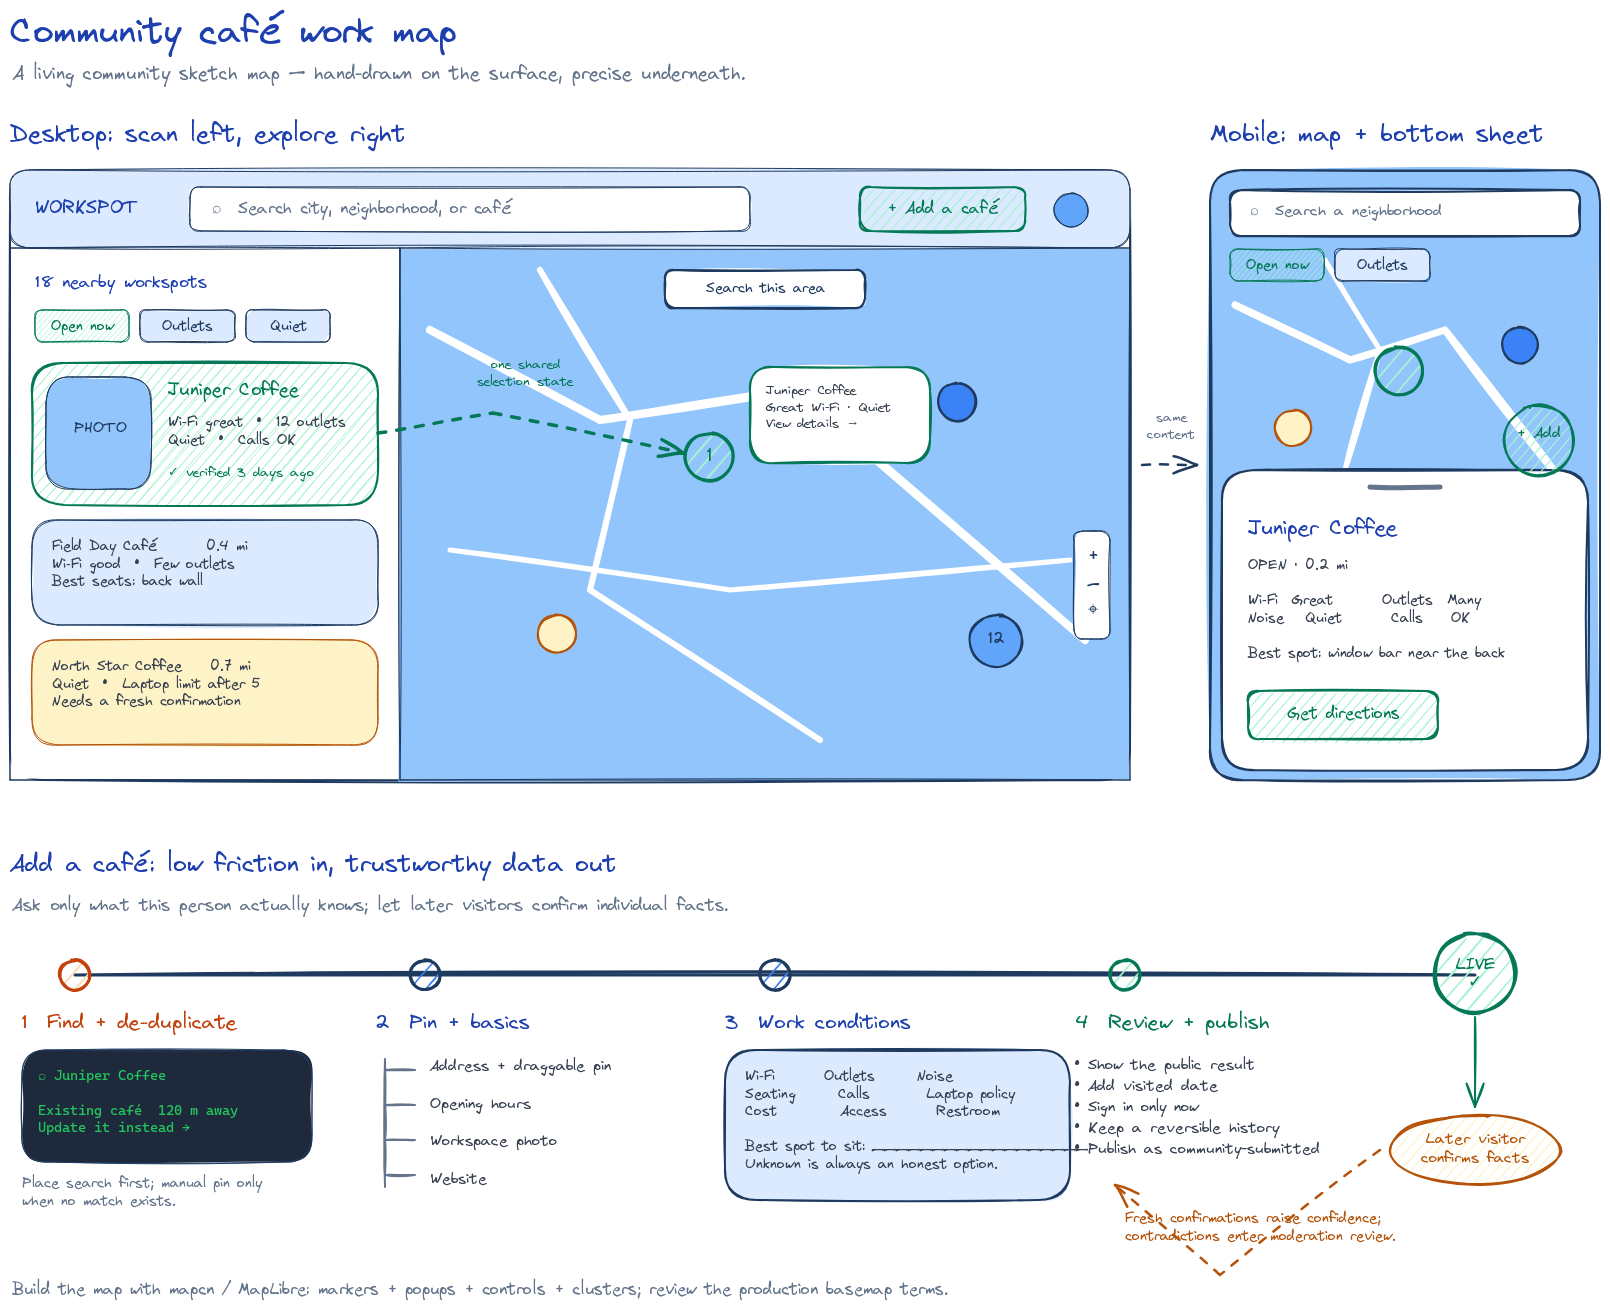
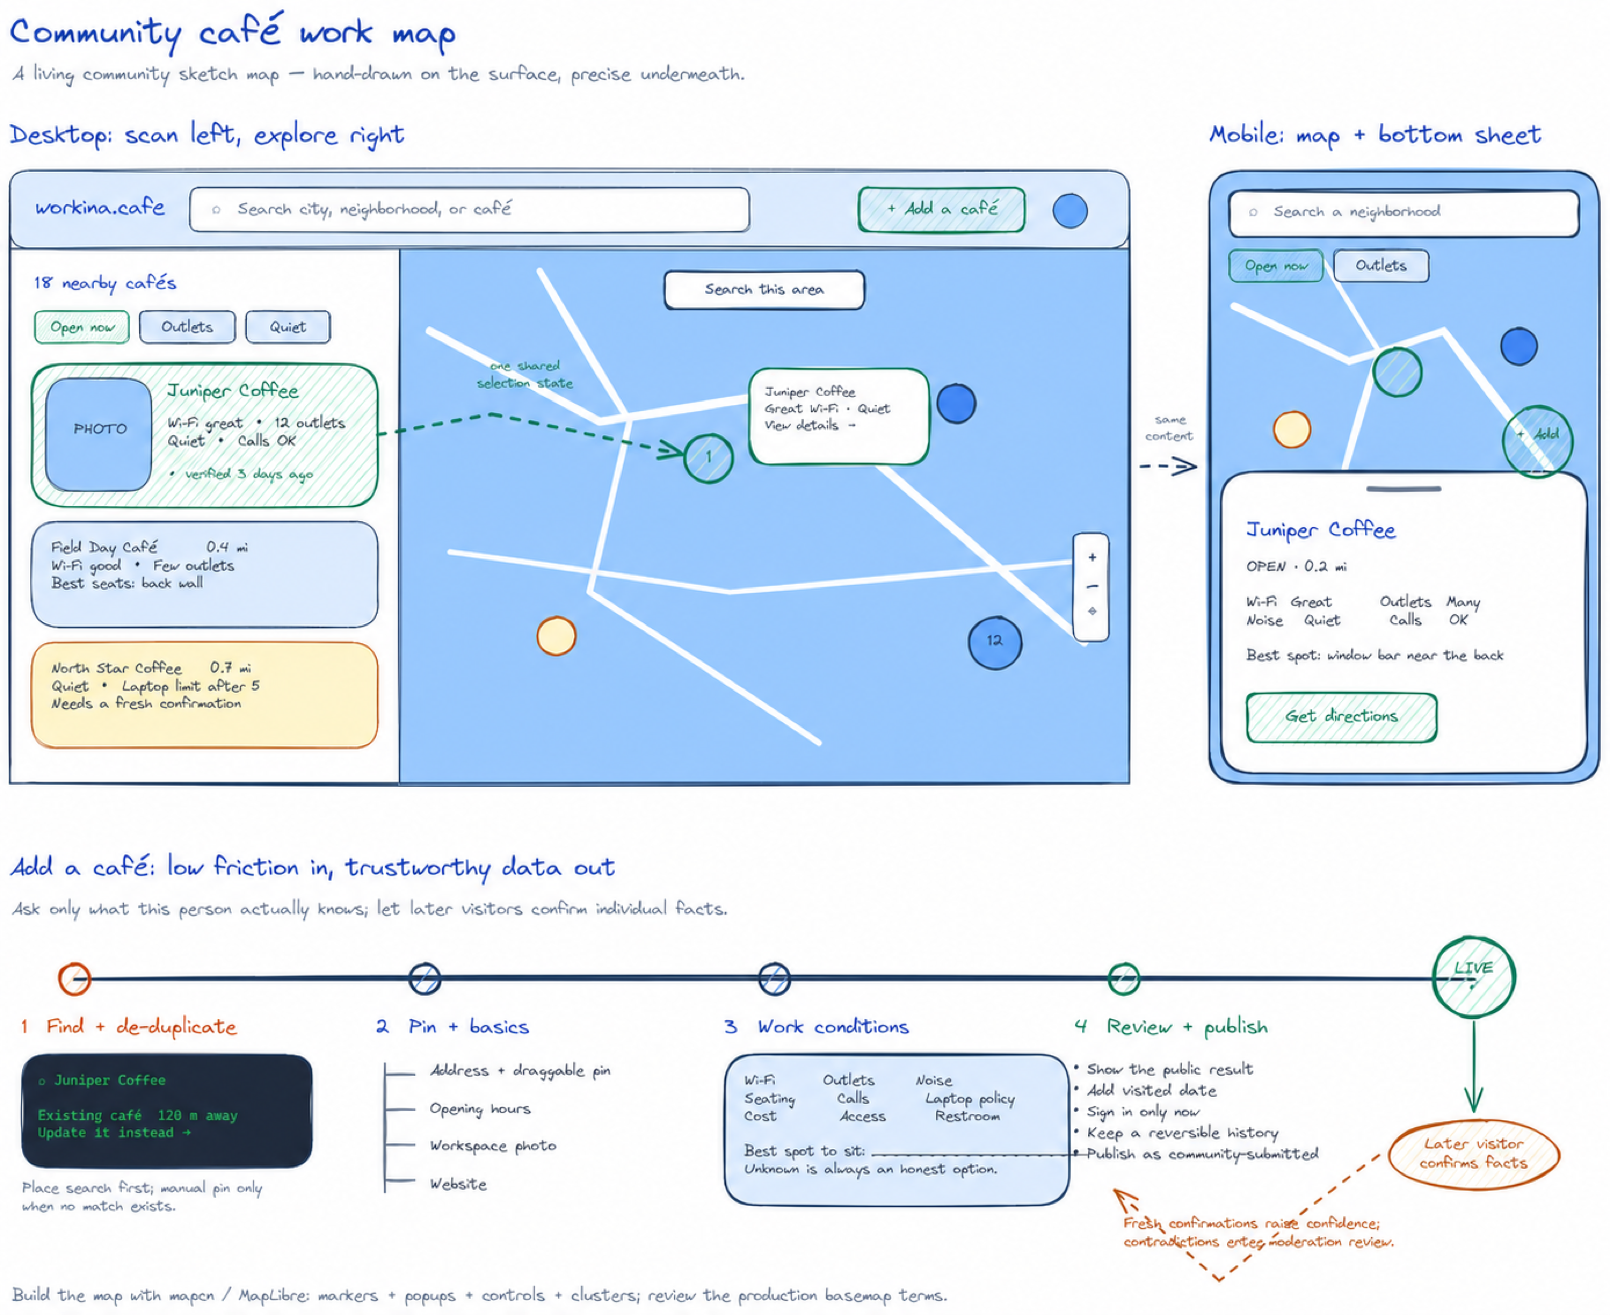
Make the workina.cafe rebrand visible
Implements: notes/2026-08-13-complete-workinacafe-rebrand.html#D-001

diff --git a/implementation-notes/2026-08-13-complete-workinacafe-rebrand.html b/implementation-notes/2026-08-13-complete-workinacafe-rebrand.html
@@ -1,0 +1,29 @@
+<!doctype html>
+<html lang="en">
+<head>
+<meta charset="utf-8">
+<title>Complete workina.cafe rebrand</title>
+<meta name="task" content="Remove remaining Workspot references from product surfaces and documentation">
+<meta name="date-started" content="2026-08-13">
+<meta name="date-updated" content="2026-08-13">
+<meta name="status" content="ready-for-review">
+<meta name="blast-radius" content="low">
+<meta name="tags" content="branding,documentation,accessibility">
+<meta name="related" content="2026-08-13-pr-4-merge-readiness.html">
+<style>body { font: 14px/1.45 -apple-system, system-ui, sans-serif; max-width: 880px; margin: 1.5rem auto; padding: 0 1rem; color: #111; } h1 { font-size: 20px; margin: 0 0 .25rem; } h2 { font-size: 15px; margin: 1.4rem 0 .4rem; border-bottom: 1px solid #ddd; padding-bottom: .2rem; } table { border-collapse: collapse; width: 100%; margin: .4rem 0 .8rem; } th, td { border: 1px solid #ddd; padding: 4px 8px; text-align: left; vertical-align: top; } th { background: #f6f6f6; } code { font-family: ui-monospace, Menlo, monospace; background: #f1f1f1; padding: 1px 4px; border-radius: 3px; font-size: 12.5px; } ul { margin: .3rem 0 .8rem 1.2rem; padding: 0; } .meta { color: #555; font-size: 12.5px; margin-bottom: .8rem; } .kv { display: grid; grid-template-columns: 140px 1fr; gap: 2px 14px; font-size: 13px; margin: .4rem 0 1rem; } .kv b { color: #444; } .blast-low { color: #2a7a2a; }</style>
+</head>
+<body>
+<h1>Complete workina.cafe rebrand</h1>
+<p class="meta"><code>prepare-pr-4-for-merge</code> · worktree <code>/Users/anishthite/conductor/workspaces/workinacafe/doha</code> · 2026-08-13 · status <b>ready-for-review</b> · blast <span class="blast-low">low</span></p>
+<h2>Summary</h2>
+<div class="kv"><b>Goal</b><div>Make <code>workina.cafe</code> the only product identity across UI, metadata, and visual documentation.</div><b>Source</b><div>Current app copy and checked-in screenshots.</div><b>Surface</b><div>Desktop, tablet, mobile, social, and UX concept artifacts.</div><b>Schema</b><div>None.</div><b>Mobile</b><div>Keep the wordmark visible at narrow viewports.</div><b>Open Qs</b><div>0.</div></div>
+<h2>Files</h2>
+<table><tr><th>Path</th><th>Kind</th><th>Delta</th></tr><tr><td><code>src/components/cafe-explorer.tsx</code></td><td>touch</td><td>Replace legacy user-facing terms and name the home control.</td></tr><tr><td><code>src/components/add-cafe-dialog.tsx</code></td><td>touch</td><td>Replace submission terminology.</td></tr><tr><td><code>src/app/globals.css</code></td><td>touch</td><td>Keep the wordmark visible on mobile.</td></tr><tr><td><code>docs/cafe-work-map-ux.{excalidraw,png}</code></td><td>touch</td><td>Refresh legacy design labels.</td></tr><tr><td><code>docs/v1-*.png</code></td><td>touch</td><td>Refresh app screenshots from the rebranded interface.</td></tr></table>
+<h2>Decisions</h2>
+<table><tr><th>ID</th><th>Choice · Rationale</th></tr><tr><td>D-001</td><td>Use <code>café</code> for generic inventory terms. Reserve <code>workina.cafe</code> for the product identity.</td></tr><tr><td>D-002</td><td>Retain the wordmark on small screens. The product name must remain visible where screenshots and users encounter the app.</td></tr></table>
+<h2>Reversibility</h2>
+<p>R-001 · <span class="blast-low">low</span>. Revert the rebrand commit to restore prior strings, styles, and visual artifacts.</p>
+<h2>Definition of done</h2>
+<ul><li>Removed remaining <code>Workspot</code> references from user-facing source and current documentation.</li><li>Captured desktop, tablet, and mobile screenshots with the visible <code>workina.cafe</code> wordmark.</li><li>Passed lint, typecheck, and production build.</li></ul>
+</body>
+</html>

diff --git a/src/components/cafe-explorer.tsx b/src/components/cafe-explorer.tsx
@@ -147,7 +147,7 @@ function EmptyResults({ clearFilters }: { clearFilters: () => void }) {
   return (
     <div className="empty-results">
       <span className="empty-results__doodle">?</span>
-      <h3>No workspots match that sketch.</h3>
+      <h3>No cafés match that sketch.</h3>
       <p>Try removing a filter or searching another neighborhood.</p>
       <button className="text-button" onClick={clearFilters} type="button">
         <X aria-hidden="true" /> Clear filters
@@ -328,7 +328,7 @@ export function CafeExplorer() {
   return (
     <main className="app-shell">
       <header className="topbar rough-surface">
-        <button className="wordmark" onClick={() => setSelectedId(null)} type="button">
+        <button aria-label="workina.cafe home" className="wordmark" onClick={() => setSelectedId(null)} type="button">
           <span className="wordmark__mark"><Coffee aria-hidden="true" /></span>
           <span>work<span>ina.cafe</span></span>
         </button>
@@ -350,7 +350,7 @@ export function CafeExplorer() {
         </label>
 
         <nav className="topbar__actions" aria-label="Account actions">
-          <button className="saved-link" onClick={() => setToast(savedIds.size ? `${savedIds.size} saved workspot${savedIds.size === 1 ? "" : "s"}.` : "No saved cafés yet.")} type="button">
+          <button className="saved-link" onClick={() => setToast(savedIds.size ? `${savedIds.size} saved café${savedIds.size === 1 ? "" : "s"}.` : "No saved cafés yet.")} type="button">
             <Bookmark aria-hidden="true" /> <span>Saved</span>
             {savedIds.size > 0 && <b>{savedIds.size}</b>}
           </button>
@@ -377,7 +377,7 @@ export function CafeExplorer() {
                 <div>
                   <span className="eyebrow"><Sparkles aria-hidden="true" /> Community checked</span>
                   <h1>Find your next desk away from home.</h1>
-                  <p>{visibleCafes.length} workspot{visibleCafes.length === 1 ? "" : "s"} around San Francisco</p>
+                  <p>{visibleCafes.length} café{visibleCafes.length === 1 ? "" : "s"} around San Francisco</p>
                 </div>
                 <button aria-label="Show filter options" className="icon-button filter-button" type="button">
                   <SlidersHorizontal aria-hidden="true" />
@@ -425,7 +425,7 @@ export function CafeExplorer() {
           )}
         </aside>
 
-        <section aria-label="Map of community café workspots" className="map-panel">
+        <section aria-label="Map of community cafés" className="map-panel">
           <Map
             center={MAP_CENTER}
             className="community-map"

diff --git a/implementation-notes/INDEX.html b/implementation-notes/INDEX.html
@@ -6,6 +6,7 @@
 <body>
 <h1>Implementation Notes — Index</h1>
 <table><thead><tr><th>Date</th><th>Task</th><th>Status</th><th>Blast</th><th>Tags</th><th>Summary</th></tr></thead><tbody>
+<tr><td>2026-08-13</td><td><a href="2026-08-13-complete-workinacafe-rebrand.html">Complete workina.cafe rebrand</a></td><td>ready-for-review</td><td class="blast-low">low</td><td>branding, documentation, accessibility</td><td>Remove legacy product identity from UI and visual documentation.</td></tr>
 <tr><td>2026-08-13</td><td><a href="2026-08-13-pr-4-merge-readiness.html">Prepare PR #4 for merge</a></td><td>ready-for-review</td><td class="blast-low">low</td><td>metadata, opengraph, merge</td><td>Resolve PR #4 against main and validate social preview delivery.</td></tr>
 </tbody></table>
 </body>

diff --git a/src/components/add-cafe-dialog.tsx b/src/components/add-cafe-dialog.tsx
@@ -319,7 +319,7 @@ export function AddCafeDialog({ open, onClose, onPublish }: AddCafeDialogProps) 
               </div>
               <div className="review-sheet hachure-fill">
                 <div>
-                  <span className="eyebrow">New workspot</span>
+                  <span className="eyebrow">New café</span>
                   <h3>{draft.name}</h3>
                   <p>{draft.address}</p>
                 </div>
@@ -376,7 +376,7 @@ export function AddCafeDialog({ open, onClose, onPublish }: AddCafeDialogProps) 
               onClick={publish}
               type="button"
             >
-              Publish workspot <Check aria-hidden="true" />
+              Publish café <Check aria-hidden="true" />
             </button>
           )}
         </footer>

diff --git a/src/app/globals.css b/src/app/globals.css
@@ -1776,7 +1776,8 @@
   }
 
   .wordmark {
-    font-size: 0;
+    font-size: 1.1rem;
+    gap: 7px;
   }
 
   .wordmark__mark {
